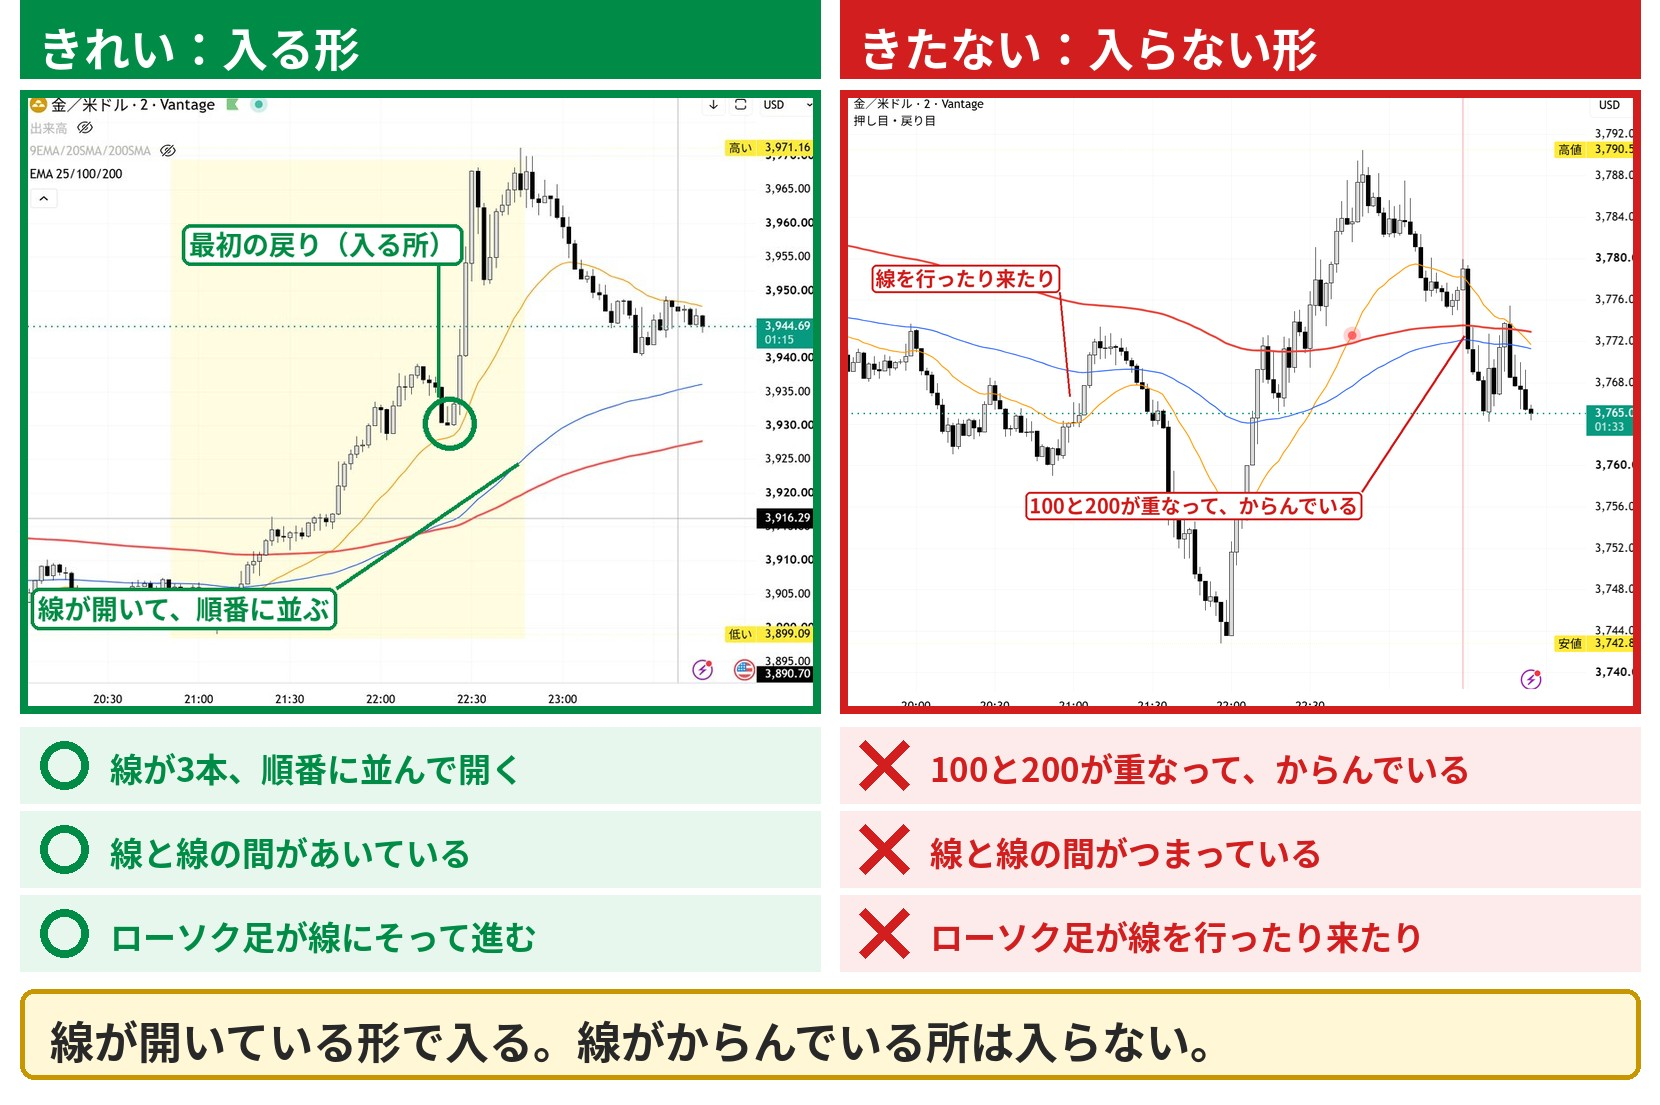
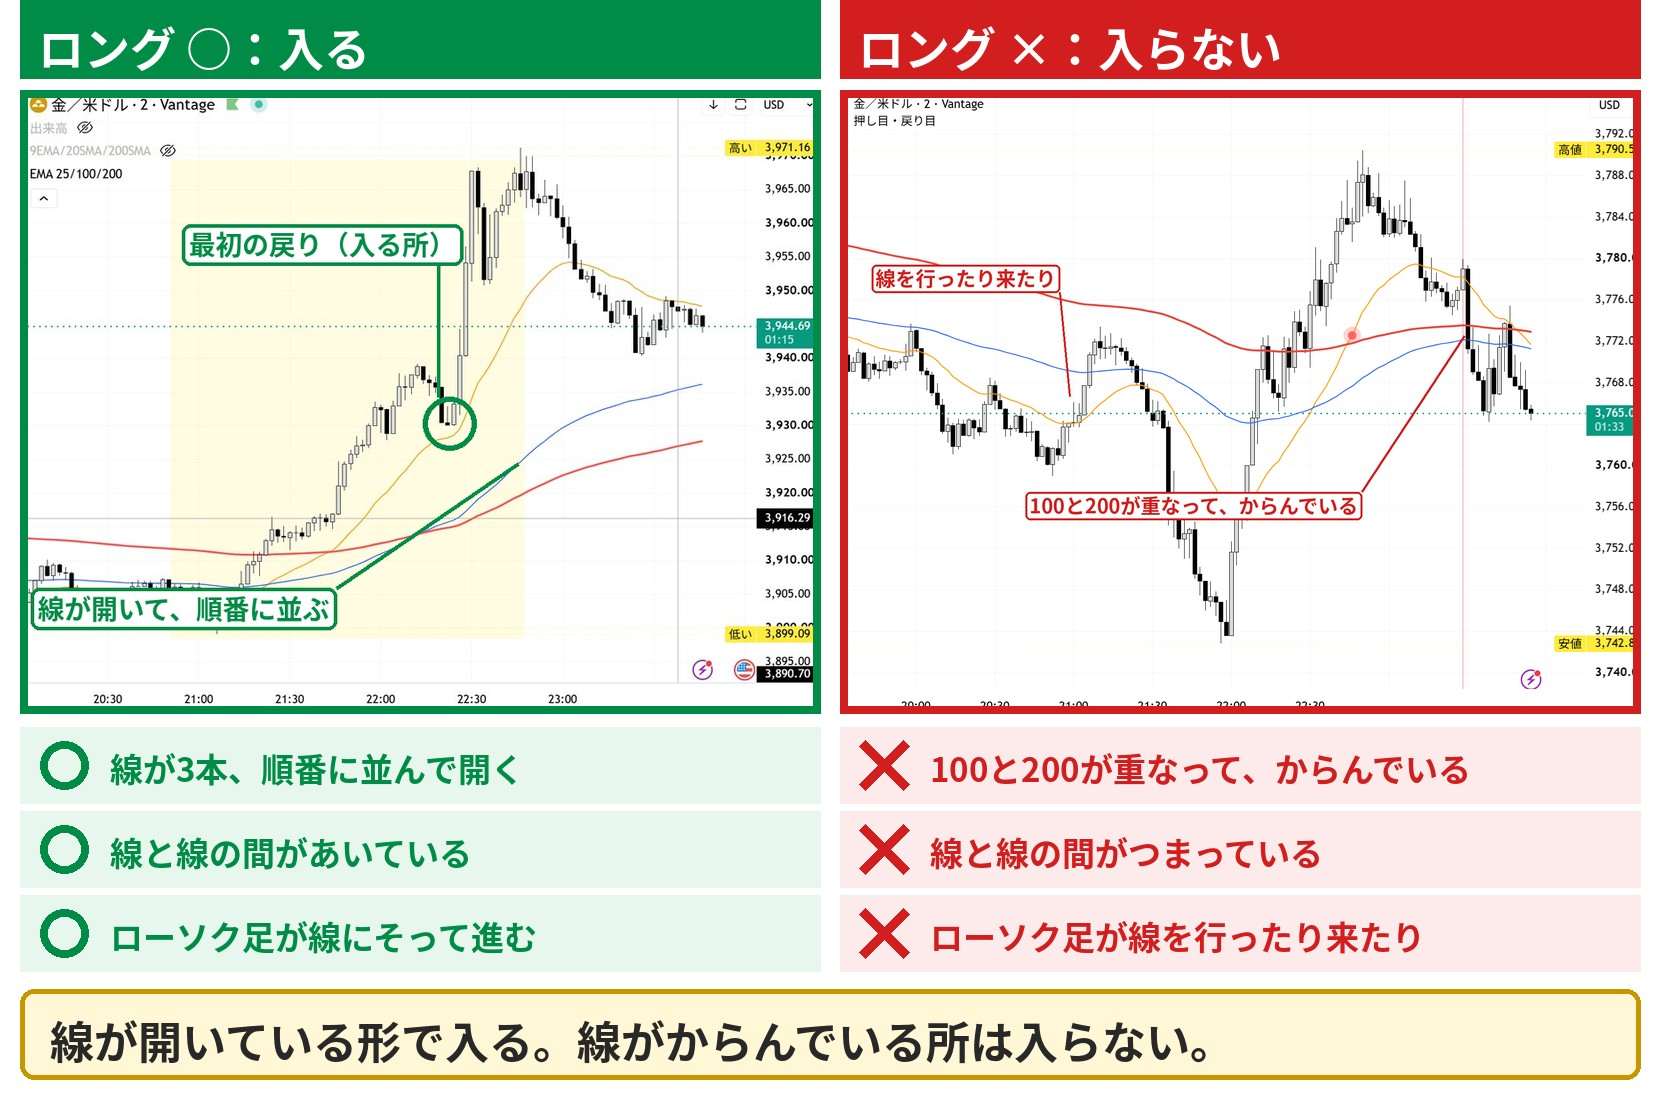
例20: ロング○×の2枚（1分足・2分足）に整理。大きく表示、余分な文を削除
Claude-Session: https://claude.ai/code/session_01HxS9YaEfLR2yPnioVsHz63

Changed region(s): [[0.5223, 0.0, 0.7988, 0.0615], [0.0, 0.0308, 0.2151, 0.0615]]

diff --git a/reversal.html b/reversal.html
@@ -80,20 +80,14 @@ body.lb-open { overflow: hidden; }
   </header>
 
   <section class="card big">
-    <h2>例20：ロングしなかった所</h2>
+    <h2>例20：ロングの、入る・入らない</h2>
+    <h3 class="part first">1分足</h3>
     <figure class="pic wide">
-      <a href="methods/rev-nolong-compare.jpg"><img src="methods/rev-nolong-compare.jpg" alt="左と中：いい（例16 ①、例11 ②。MAに支えられた）、右：だめ（今回。25EMAと100EMAの下で、200EMAに触れただけ）" loading="lazy"></a>
+      <a href="methods/rev-nolong-compare.jpg"><img src="methods/rev-nolong-compare.jpg" alt="左：ロング○（価格は25EMAの上で、200EMAに支えられた）、右：ロング×（25EMAと100EMAの下で、200EMAに触れただけ）" loading="lazy"></a>
     </figure>
-    <ul class="cap3">
-      <li><b>赤の縦線では、ロングしなかった。</b>前なら入っていた。</li>
-    </ul>
-    <h3 class="part">きれいな形と、きたない形</h3>
+    <h3 class="part">2分足</h3>
     <figure class="pic wide">
-      <a href="methods/rev-clean-vs-tangled.jpg"><img src="methods/rev-clean-vs-tangled.jpg" alt="左：きれいな形（線が開いて、順番に並ぶ）、右：きたない形（100と200が重なって、からんでいる）" loading="lazy"></a>
-    </figure>
-    <h3 class="part">1分足（全体）</h3>
-    <figure class="pic wide">
-      <a href="methods/rev-nolong.jpg"><img src="methods/rev-nolong.jpg" alt="1分足。赤の縦線ではロングしなかった。25EMAと100EMAの下に抜けて、200EMAに触れただけ" loading="lazy"></a>
+      <a href="methods/rev-clean-vs-tangled.jpg"><img src="methods/rev-clean-vs-tangled.jpg" alt="左：ロング○（線が開いて、順番に並ぶ）、右：ロング×（100と200が重なって、からんでいる）" loading="lazy"></a>
     </figure>
   </section>
 
